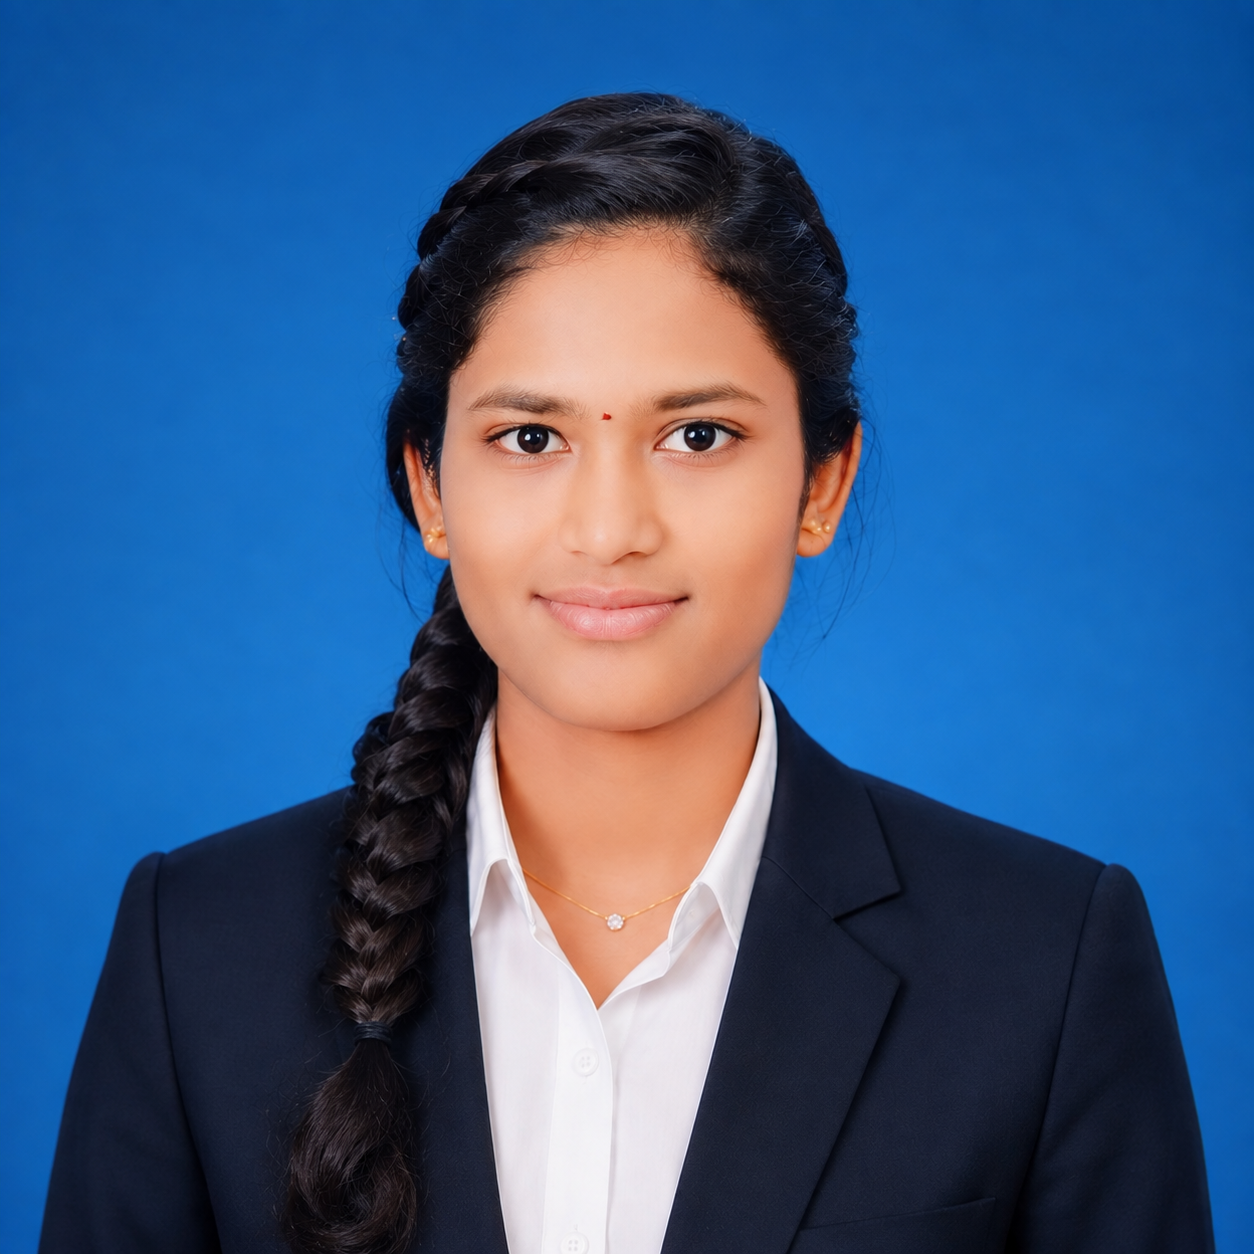
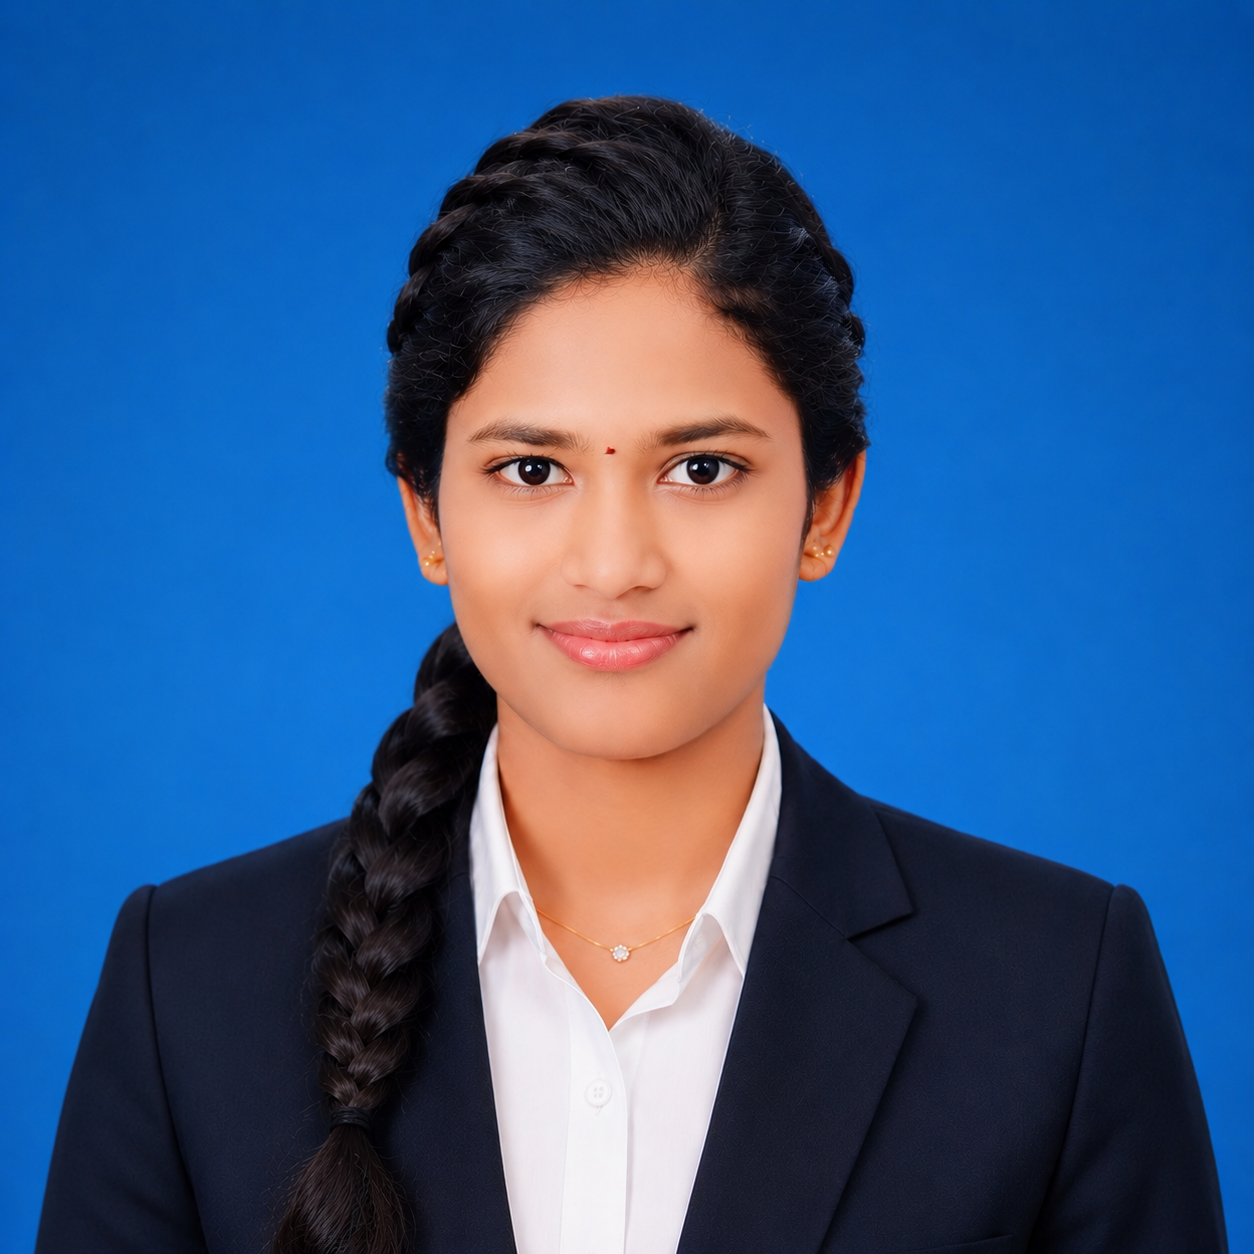
Updated the projects to carousel

diff --git a/src/components/Projects.jsx b/src/components/Projects.jsx
@@ -1,4 +1,5 @@
-import { useState } from 'react';
+import { useEffect, useRef, useState } from 'react';
+import { FiChevronLeft, FiChevronRight } from 'react-icons/fi';
 import Section from './Section';
 import ProjectCard from './ProjectCard';
 import ProjectModal from './ProjectModal';
@@ -6,13 +7,74 @@ import { projects } from '../data/resumeData';
 
 export default function Projects() {
   const [active, setActive] = useState(null);
+  const trackRef = useRef(null);
+  const [canPrev, setCanPrev] = useState(false);
+  const [canNext, setCanNext] = useState(true);
+
+  const updateArrows = () => {
+    const el = trackRef.current;
+    if (!el) return;
+    setCanPrev(el.scrollLeft > 8);
+    setCanNext(el.scrollLeft < el.scrollWidth - el.clientWidth - 8);
+  };
+
+  useEffect(() => {
+    updateArrows();
+    const el = trackRef.current;
+    if (!el) return undefined;
+
+    el.addEventListener('scroll', updateArrows, { passive: true });
+    window.addEventListener('resize', updateArrows);
+    return () => {
+      el.removeEventListener('scroll', updateArrows);
+      window.removeEventListener('resize', updateArrows);
+    };
+  }, []);
+
+  const scrollByCard = (direction) => {
+    const el = trackRef.current;
+    if (!el) return;
+    const card = el.querySelector('[data-card]');
+    const amount = card ? card.getBoundingClientRect().width + 20 : el.clientWidth * 0.8;
+    el.scrollBy({ left: direction * amount, behavior: 'smooth' });
+  };
 
   return (
     <Section id="projects" eyebrow="Projects" title="Things I've built">
-      <div className="grid gap-5 sm:grid-cols-2 lg:grid-cols-3">
-        {projects.map((p, i) => (
-          <ProjectCard key={p.id} project={p} index={i} onOpen={setActive} />
-        ))}
+      <div className="relative">
+        <div
+          ref={trackRef}
+          className="no-scrollbar flex snap-x snap-mandatory gap-5 overflow-x-auto pb-4"
+        >
+          {projects.map((p, i) => (
+            <div
+              key={p.id}
+              data-card
+              className="w-[82%] shrink-0 snap-start sm:w-[46%] lg:w-[31%]"
+            >
+              <ProjectCard project={p} index={i} onOpen={setActive} />
+            </div>
+          ))}
+        </div>
+
+        <button
+          type="button"
+          aria-label="Previous project"
+          onClick={() => scrollByCard(-1)}
+          disabled={!canPrev}
+          className="absolute left-0 top-[45%] hidden -translate-x-1/2 -translate-y-1/2 items-center justify-center rounded-full border border-line bg-surface-2/90 p-2.5 text-fg backdrop-blur transition-all hover:border-accent-2/60 hover:text-accent-2 disabled:pointer-events-none disabled:opacity-0 sm:flex"
+        >
+          <FiChevronLeft className="text-lg" />
+        </button>
+        <button
+          type="button"
+          aria-label="Next project"
+          onClick={() => scrollByCard(1)}
+          disabled={!canNext}
+          className="absolute right-0 top-[45%] hidden -translate-y-1/2 translate-x-1/2 items-center justify-center rounded-full border border-line bg-surface-2/90 p-2.5 text-fg backdrop-blur transition-all hover:border-accent-2/60 hover:text-accent-2 disabled:pointer-events-none disabled:opacity-0 sm:flex"
+        >
+          <FiChevronRight className="text-lg" />
+        </button>
       </div>
 
       <ProjectModal project={active} onClose={() => setActive(null)} />

diff --git a/src/index.css b/src/index.css
@@ -110,6 +110,14 @@ body {
   backdrop-filter: blur(6px);
 }
 
+.no-scrollbar {
+  scrollbar-width: none;
+  -ms-overflow-style: none;
+}
+.no-scrollbar::-webkit-scrollbar {
+  display: none;
+}
+
 .grain::before {
   content: '';
   position: absolute;
